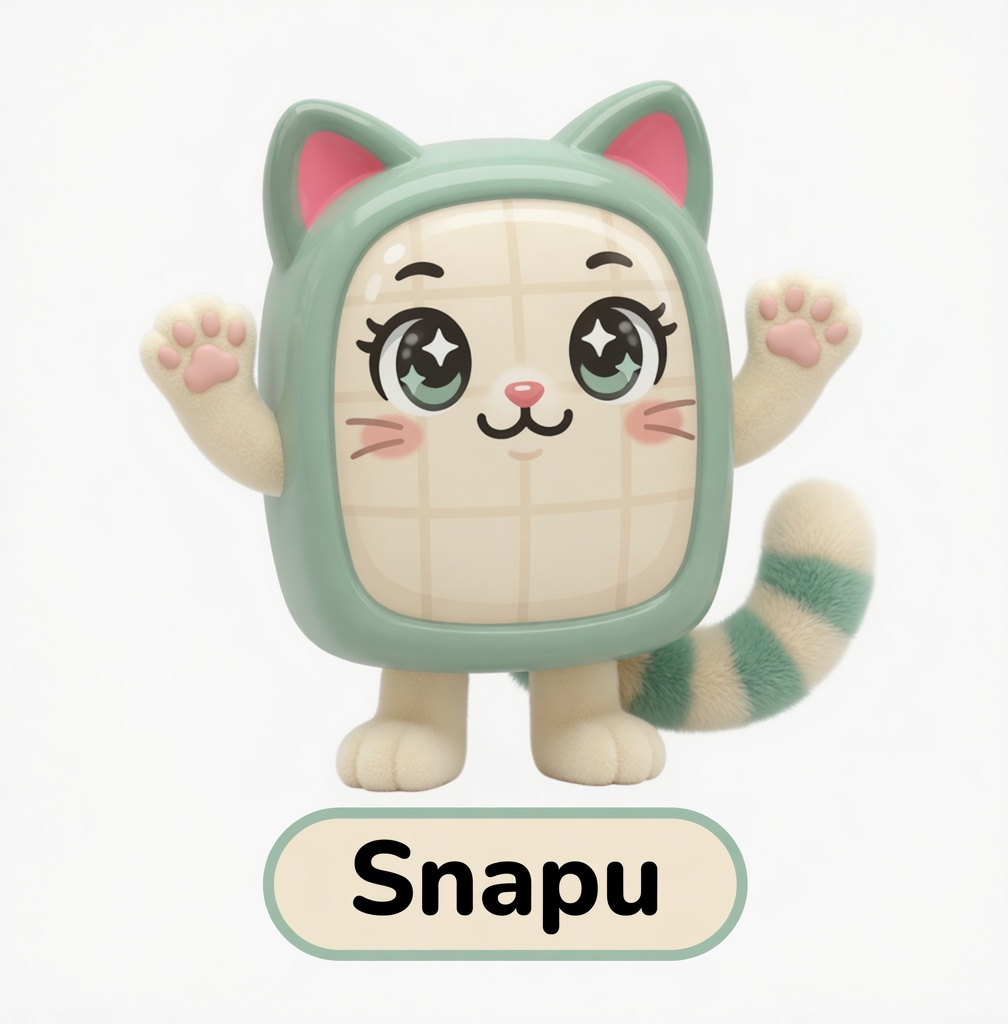
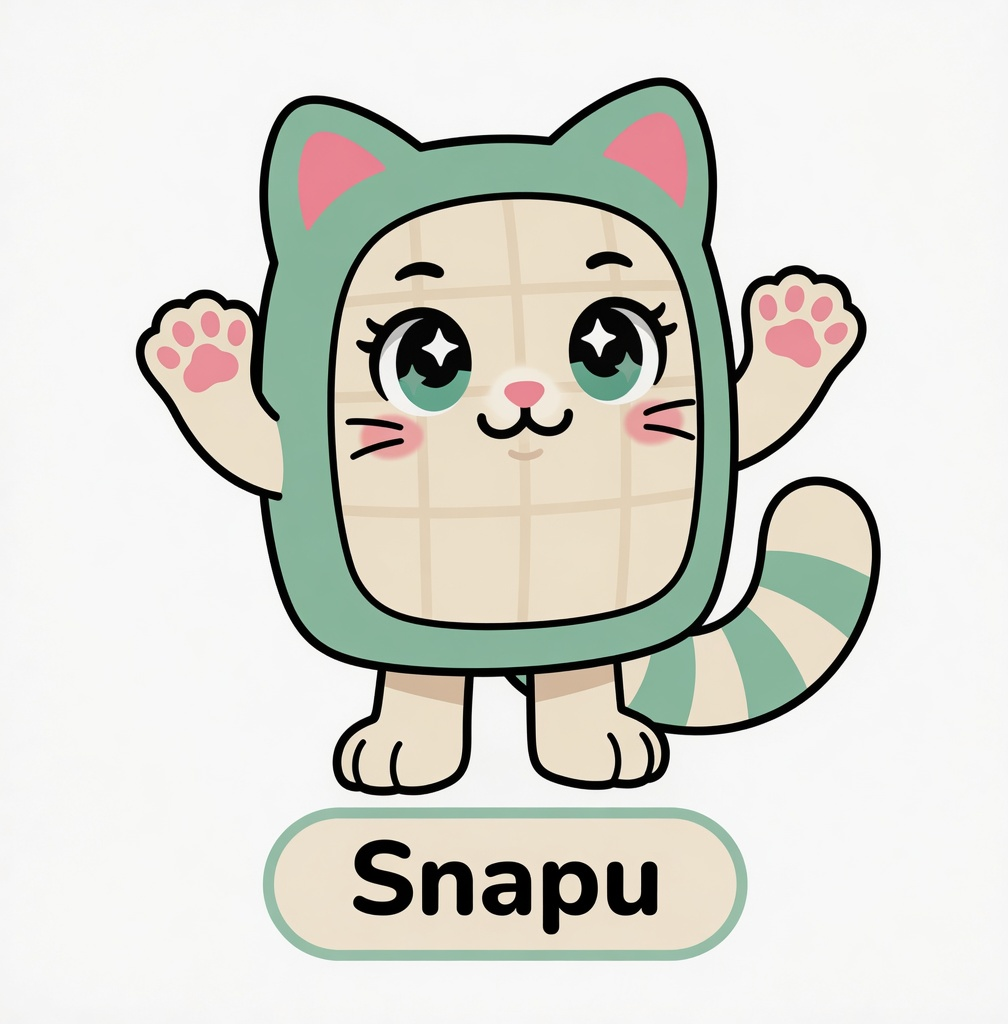
2.0.2 Redraw Snapu as flat Japanese packaging vector art

Changed region(s): [[0.123, 0.0625, 0.8919, 0.7812]]

diff --git a/docs/characters/README.md b/docs/characters/README.md
@@ -1,26 +1,21 @@
 # Snapu
 
-**Snapu** is the character.  
-**Snap Cat** is the product (the macOS app).
+**Snapu** = character · **Snap Cat** = product
+
+## Style (from JP packaging research)
+
+Flat **2D vector** commercial kyara — Kewpie / Peko / LINE-sticker energy.  
+**Not** 3D, plastic, glossy, or photoreal.
+
+- Bold outlines · solid fills · minimal/no gradients  
+- Big face · few features · reads at small size  
+- Name badge: **Snapu**
 
 ## Official assets
 
 | File | Use |
 |------|-----|
-| **`snapu.jpg`** | Hero with name badge — *Snapu* |
-| **`snap-cat.jpg`** | Same hero (product README) |
-| `snapu-icon.jpg` | Icon pose (no badge) |
-
-### Design
-- Mint-green window body + cream face grid  
-- Cat ears, eyes, whiskers, striped **tail**  
-- Soft cream **paws**  
-- Name: **Snapu**
-
-### Naming
-| | Name |
-|--|------|
-| Product / app | **Snap Cat** |
-| Character / mascot | **Snapu** |
-
-Tagline: *Snap Cat — windows that click into place.* (featuring Snapu)
+| **`snapu.jpg`** / **`snap-cat.jpg`** | Hero + name badge (flat vector) |
+| **`snapu-icon.jpg`** / **`snapu-sticker.jpg`** | Sticker / icon flat variant |
+| **`snapu-alt.jpg`** | Full window-grid body variant |
+| `archive-snapu-3d.jpg` | Old realistic render (do not use) |

diff --git a/CHANGELOG.md b/CHANGELOG.md
@@ -1,5 +1,10 @@
 - multi-display snap polish
 
+2.0.2
+
+  Flat vector Snapu packaging style
+  Drop 3D realistic mascot art
+
 2.0.1
 
   Name badge Snapu on mascot art
